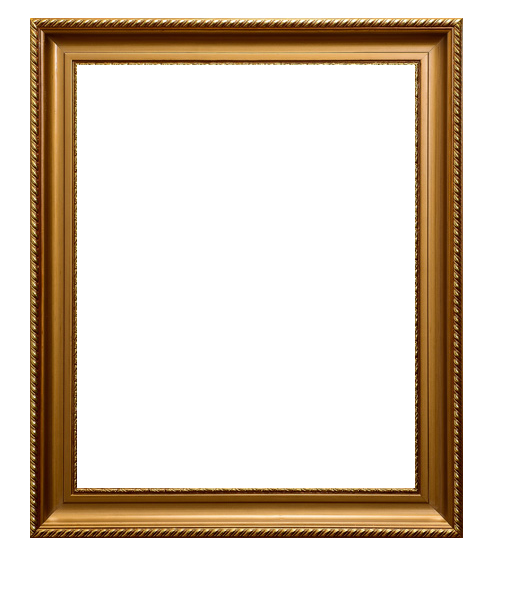
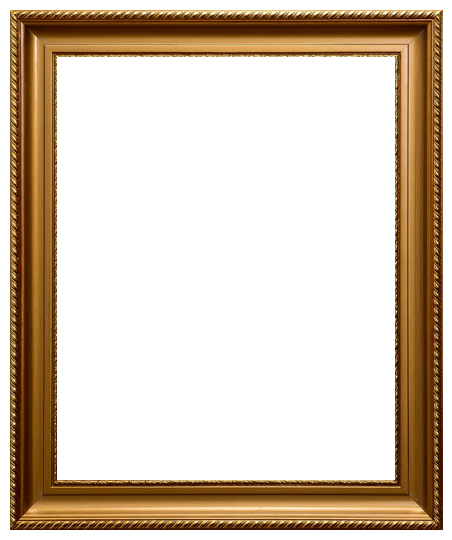
Changing the position of the frame by adding equal size between them

diff --git a/style.css b/style.css
@@ -7,6 +7,10 @@ html {
     height: 100vh;
 }
 
+body {
+    margin: 0;
+}
+
 
 /* Container style */
 
@@ -27,7 +31,7 @@ html {
 .frame1 {
     position: absolute;
     top: 5vw;
-    left: 2vw;
+    left: 2.5vw;
     z-index: 2;
 }
 
@@ -35,7 +39,8 @@ html {
     width: 30vw;
 }
 
-.image1 {
+
+/* .image1 {
     position: absolute;
     top: 8vw;
     left: 6vw;
@@ -44,7 +49,7 @@ html {
 
 .image1 img {
     width: 22vw;
-}
+} */
 
 
 /* Second photo */
@@ -52,7 +57,7 @@ html {
 .frame2 {
     position: absolute;
     top: 5vw;
-    left: 36vw;
+    left: 35vw;
 }
 
 .frame2 img {
@@ -65,7 +70,7 @@ html {
 .frame3 {
     position: absolute;
     top: 5vw;
-    right: 2vw;
+    right: 2.5vw;
 }
 
 .frame3 img {
@@ -73,7 +78,7 @@ html {
 }
 
 
-/* Media querry */
+/* Media querry  */
 
 @media only screen and (max-width: 375px) {
     .frame {

diff --git a/index.html b/index.html
@@ -15,9 +15,9 @@
         <div class="frame1">
             <img src="images/frame.png" alt="Gold frame">
         </div>
-        <div class="image1">
+        <!-- <div class="image1">
             <img src="images/painting_rose.jpg" alt="Women holding a bird">
-        </div>
+        </div> -->
 
         <div class="frame2">
             <img src="images/frame.png" alt="Gold frame">
